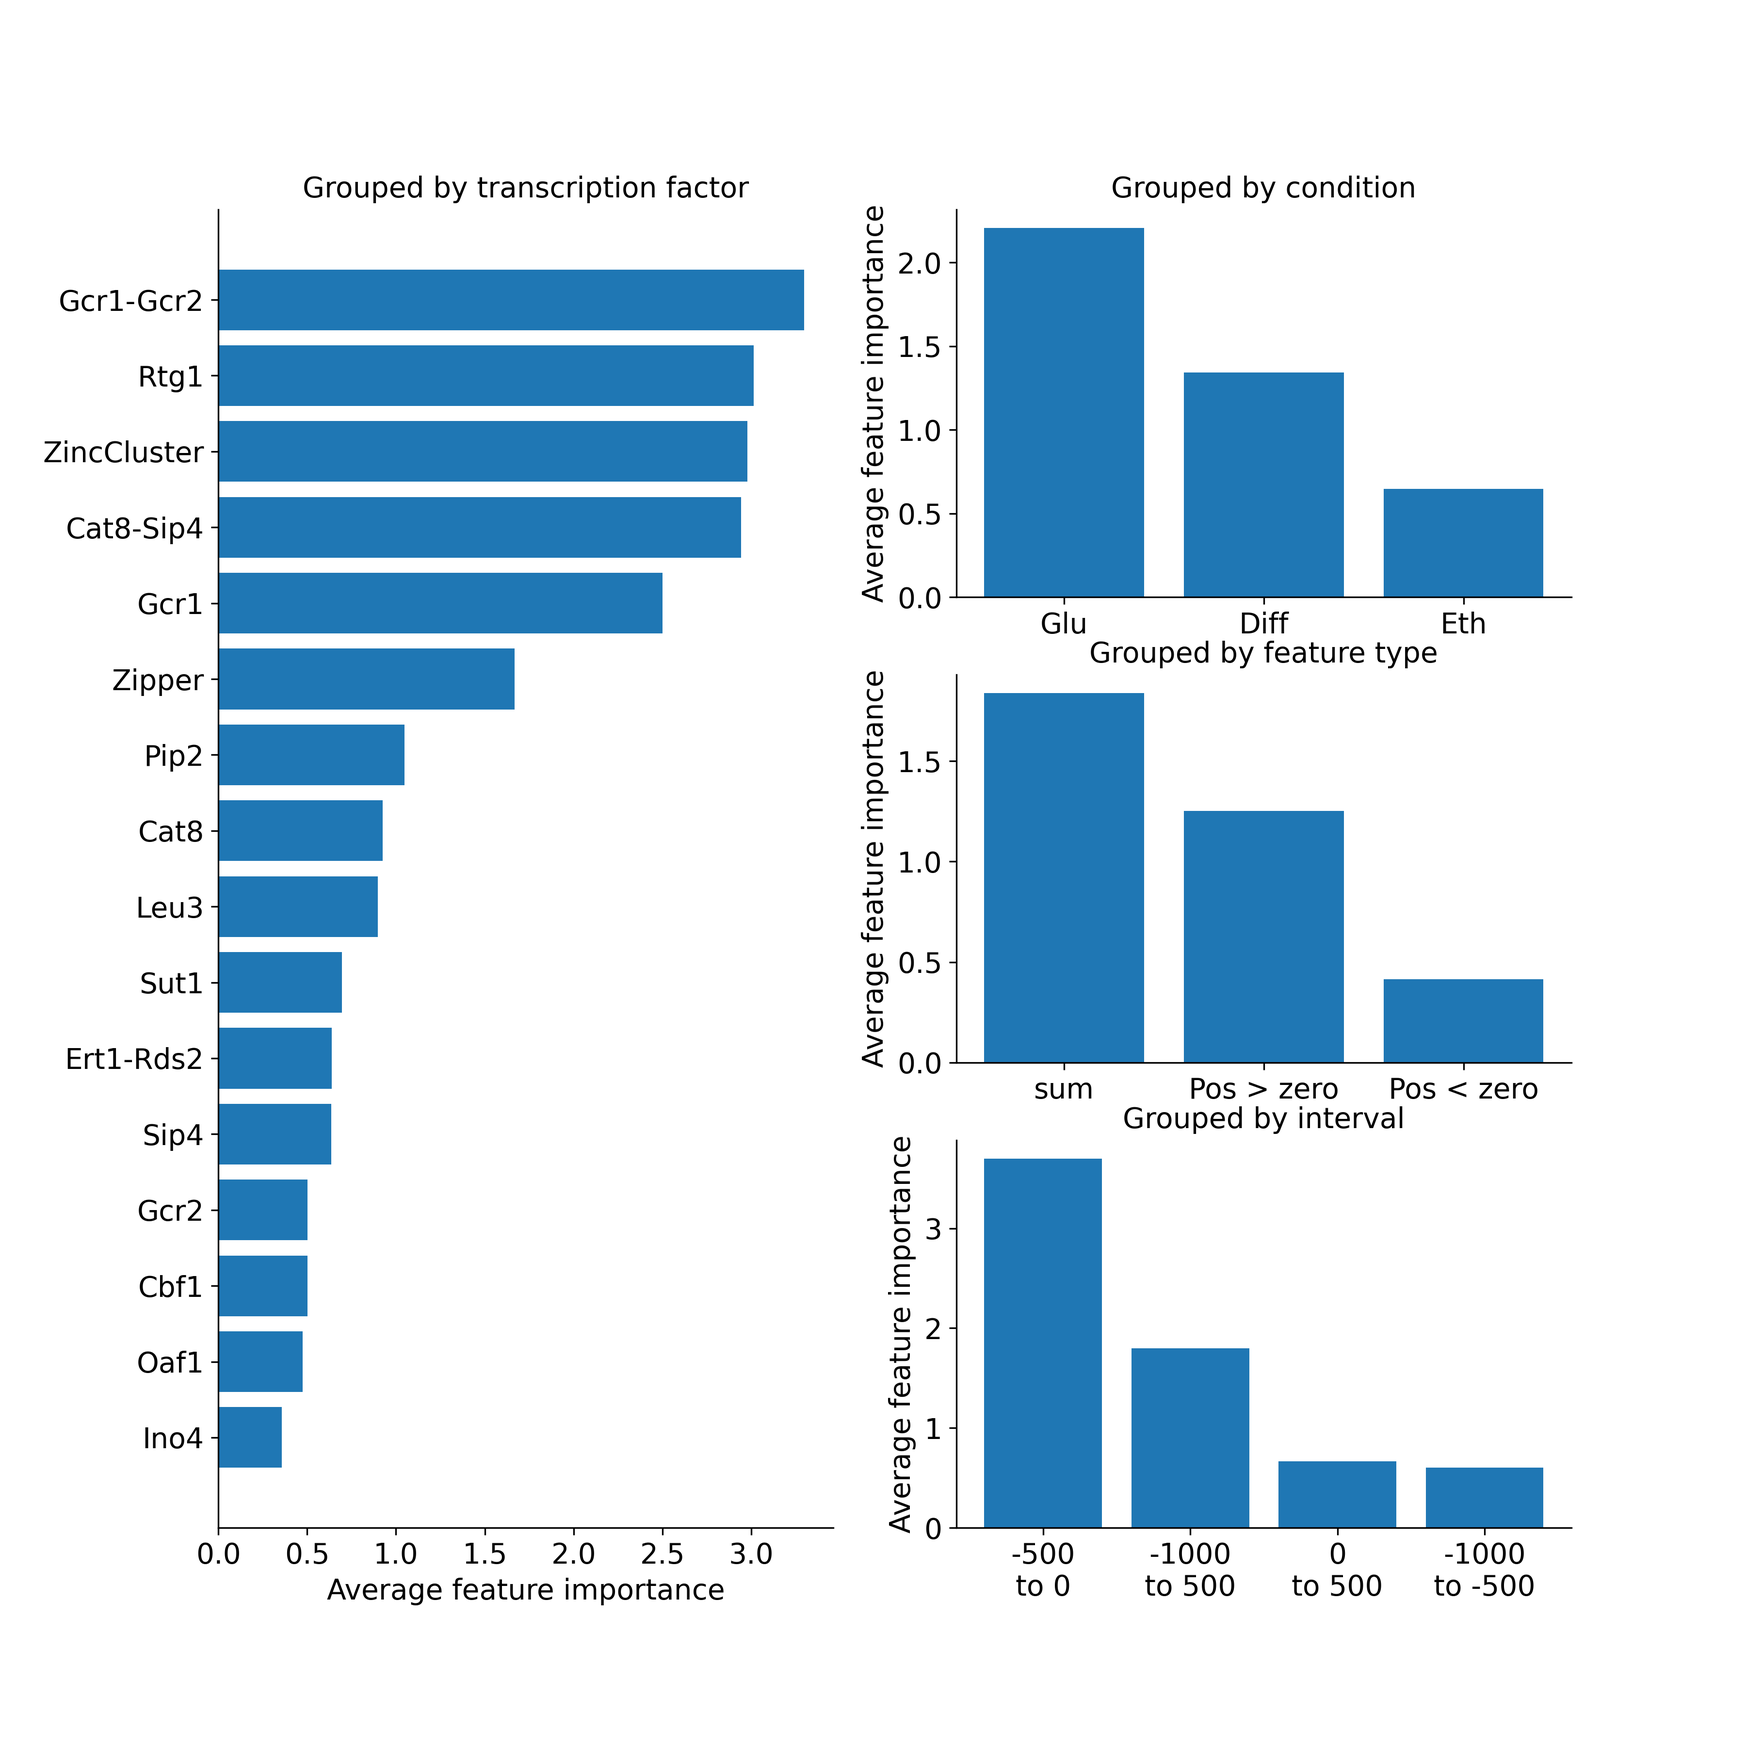
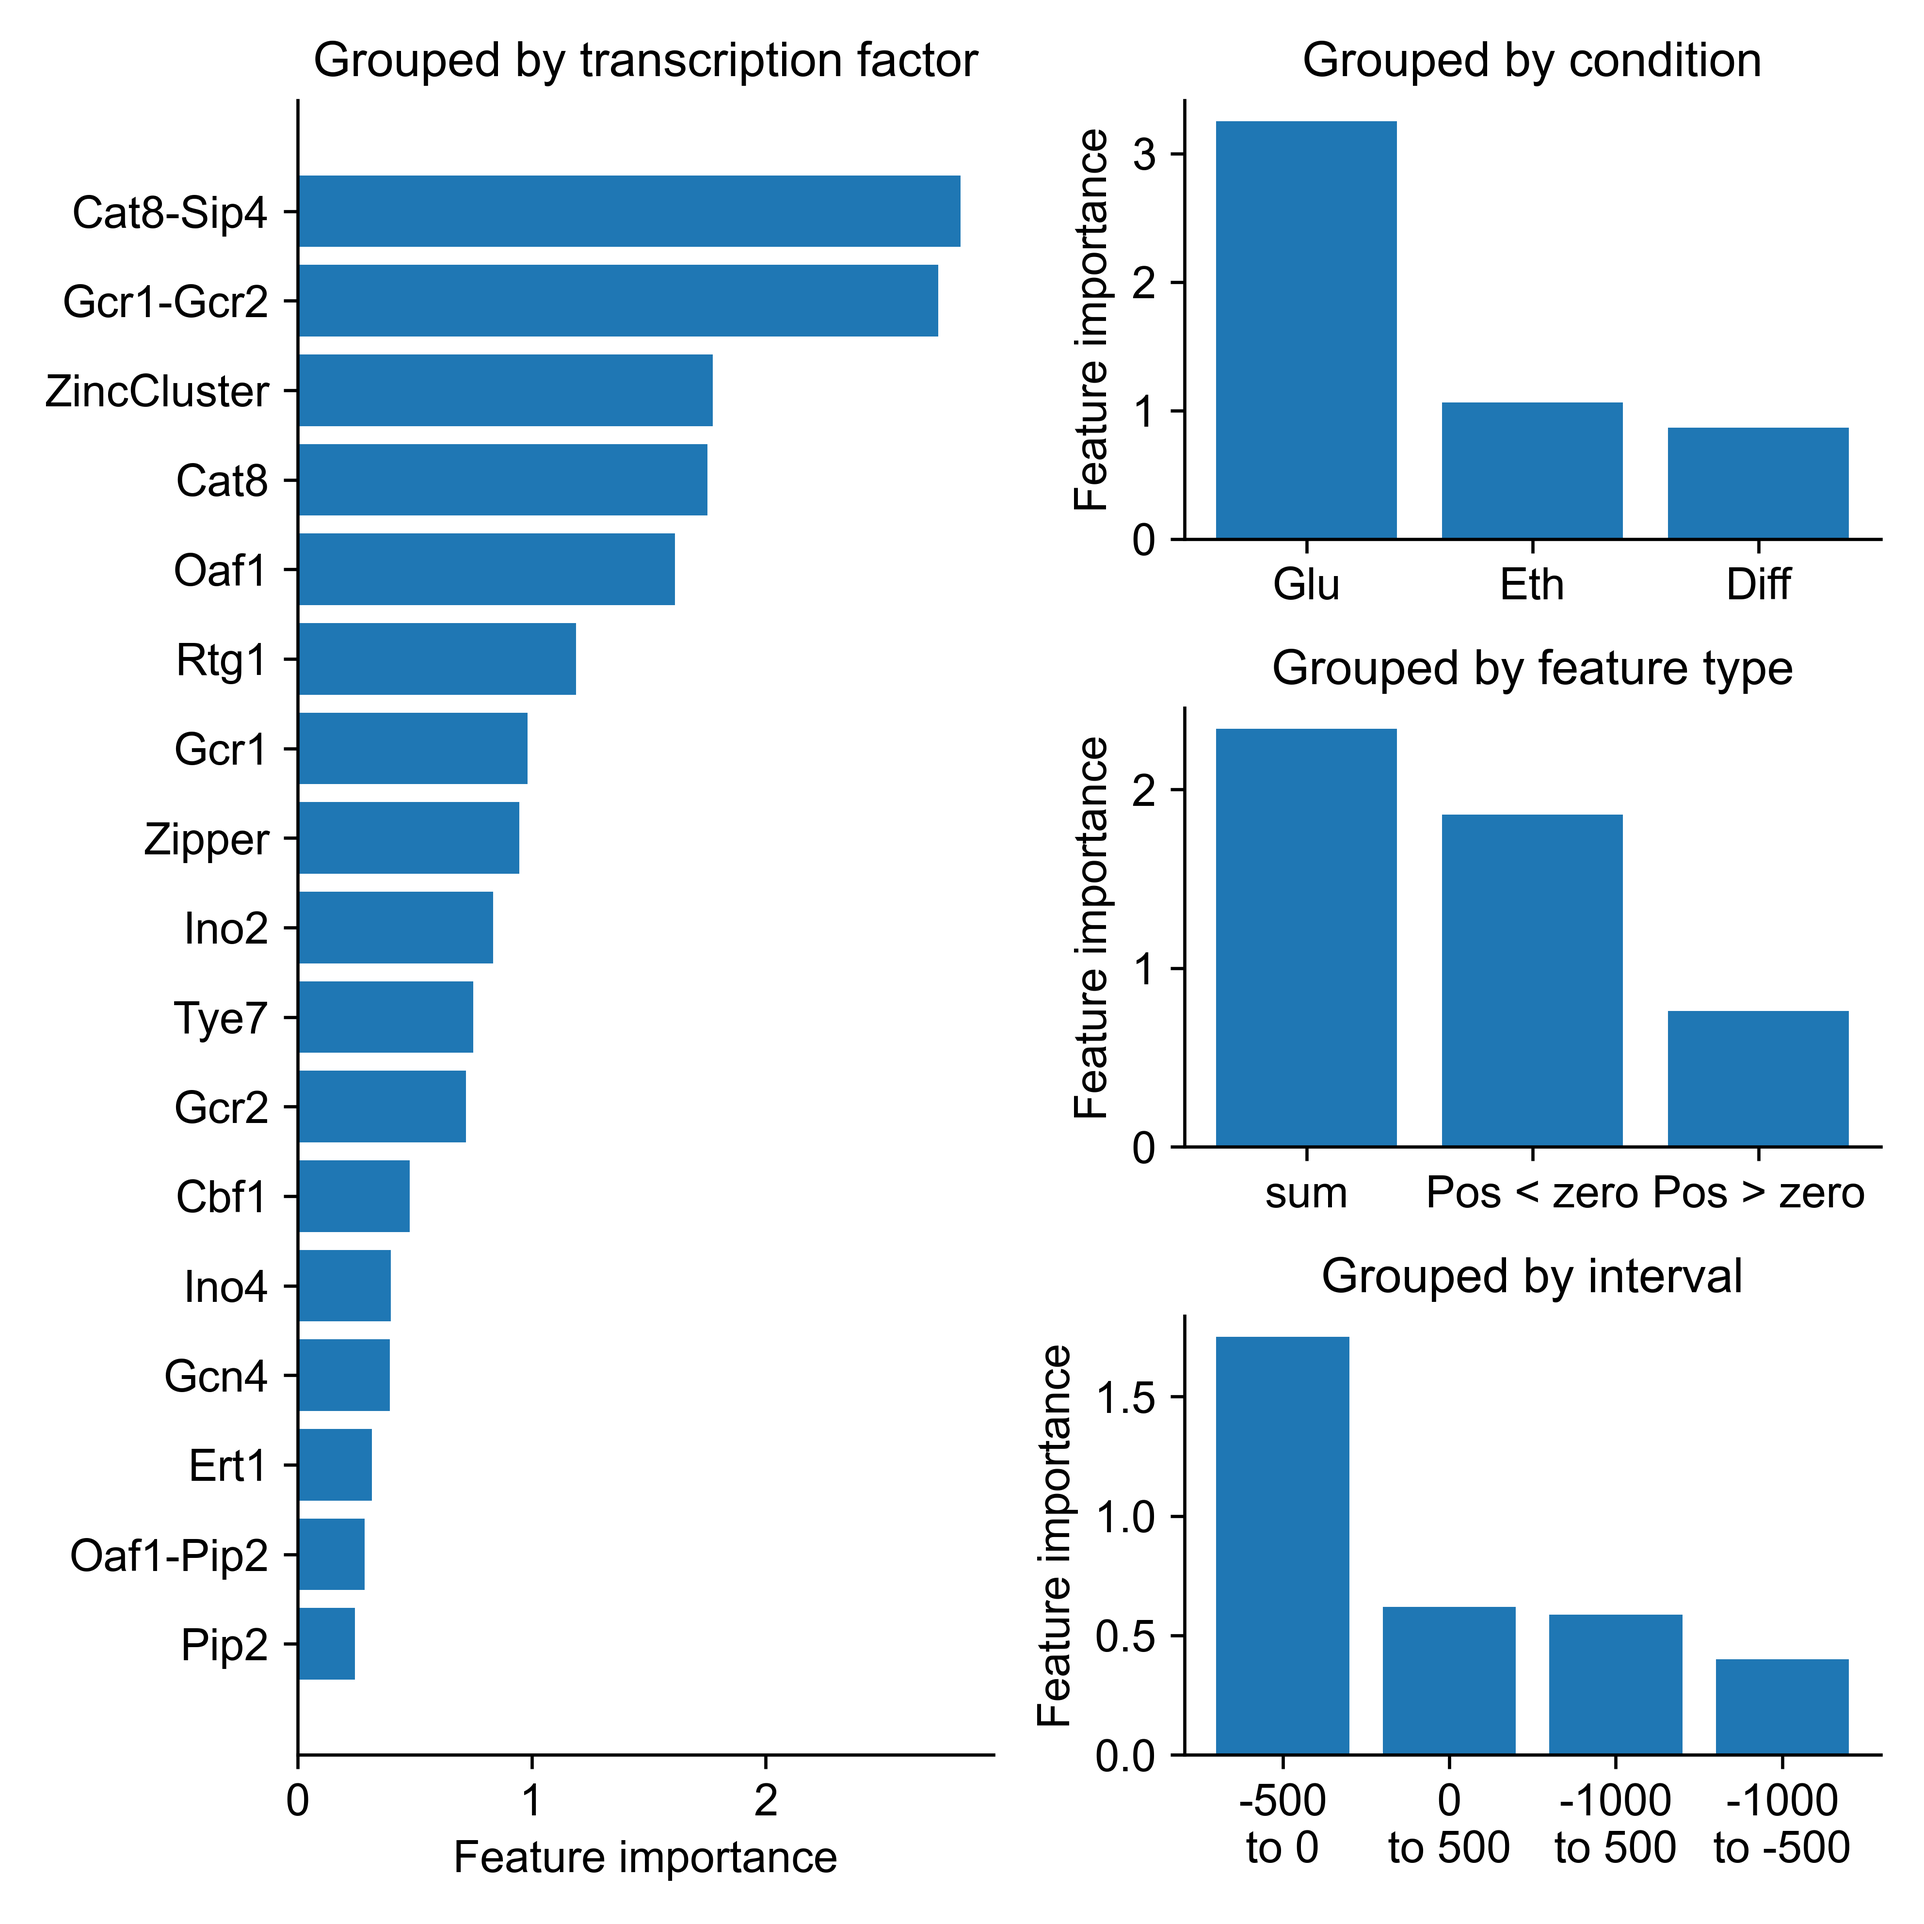
Rerun analysis of feature importance

diff --git a/Hyena_Analyse_FeatureImportance.py b/Hyena_Analyse_FeatureImportance.py
@@ -18,17 +18,17 @@ model = pickle.load(open('Results/' + model_name + '.pkl', 'rb'))
 feature_importance = [[key, value] for key, value in model.get_booster().get_score(importance_type='gain').items()]
 feature_importance.sort(key = lambda x: x[1], reverse = False)
 
-#Plot feature importance
-plt.figure(figsize = (6,16))
-ax = plt.gca()
-plt.barh([x[0] for x in feature_importance], [x[1] for x in feature_importance])
-plt.xlabel('Feature importance', fontSize = 13)
-ax.xaxis.set_tick_params(labelsize = 13)
-ax.yaxis.set_tick_params(labelsize = 13)
-ax.spines['top'].set_visible(False)
-ax.spines['right'].set_visible(False)
-plt.savefig('Results/FeatureImportance_' + model_name + '.png', dpi = 300, bbox_inches = 'tight')
-plt.show()
+# #Plot feature importance
+# plt.figure(figsize = (6,16))
+# ax = plt.gca()
+# plt.barh([x[0] for x in feature_importance], [x[1] for x in feature_importance])
+# plt.xlabel('Feature importance', fontSize = 13)
+# ax.xaxis.set_tick_params(labelsize = 13)
+# ax.yaxis.set_tick_params(labelsize = 13)
+# ax.spines['top'].set_visible(False)
+# ax.spines['right'].set_visible(False)
+# plt.savefig('Results/FeatureImportance_' + model_name + '.png', dpi = 300, bbox_inches = 'tight')
+# plt.show()
 
 #Split feature importance by TF, type, condition and interval
 feature_importance_categories = ['tf', 'condition', 'feature type', 'interval']
@@ -59,7 +59,8 @@ feature_importance_split_list['tf'].sort(key = lambda x: x[1], reverse = False)
 
 
 
-plt.figure(figsize = (12,12))
+plt.figure(figsize = (16.8 / 2.54, 16.8 / 2.54))
+plt.rcParams['font.sans-serif'] = 'Arial'
 ax = {}
 ax[1] = plt.subplot2grid((3, 2), (0, 0), rowspan=3)
 ax[2] = plt.subplot2grid((3, 2), (0, 1))
@@ -67,21 +68,23 @@ ax[3] = plt.subplot2grid((3, 2), (1, 1))
 ax[4] = plt.subplot2grid((3, 2), (2, 1))
 
 ax[1].barh([x[0] for x in feature_importance_split_list['tf']], [x[1] for x in feature_importance_split_list['tf']])
-ax[1].set_xlabel('Average feature importance', fontSize = 14)
-ax[1].xaxis.set_tick_params(labelsize = 14)
-ax[1].yaxis.set_tick_params(labelsize = 14)
+ax[1].set_xlabel('Feature importance', fontSize = 11)
+ax[1].xaxis.set_tick_params(labelsize = 11)
+ax[1].yaxis.set_tick_params(labelsize = 11)
 ax[1].spines['top'].set_visible(False)
 ax[1].spines['right'].set_visible(False)
-ax[1].set_title('Grouped by transcription factor', fontsize = 14)
+ax[1].set_title('Grouped by transcription factor', fontSize = 12)
 
 #display it for condition interval and feature type
 for i, cat in enumerate(['condition', 'feature type', 'interval',]):
     ax[i + 2].bar([x[0] for x in feature_importance_split_list[cat]], [x[1] for x in feature_importance_split_list[cat]])
-    ax[i + 2].set_ylabel('Average feature importance', fontSize = 14)
-    ax[i + 2].xaxis.set_tick_params(labelsize = 14)
-    ax[i + 2].yaxis.set_tick_params(labelsize = 14)
+    ax[i + 2].set_ylabel('Feature importance', fontSize = 11)
+    ax[i + 2].xaxis.set_tick_params(labelsize = 11)
+    ax[i + 2].yaxis.set_tick_params(labelsize = 11)
     ax[i + 2].spines['top'].set_visible(False)
     ax[i + 2].spines['right'].set_visible(False)
-    ax[i + 2].set_title('Grouped by ' + cat, fontsize = 14)
-plt.savefig('Results/FeatureImportanceSplit_' + model_name + '.png', dpi = 300, tight = True)
+    ax[i + 2].set_title('Grouped by ' + cat, fontSize = 12)
+  
+plt.tight_layout()
+plt.savefig('Results/FeatureImportanceSplit_' + model_name + '.png', dpi = 600, tight = True)
 plt.show()
